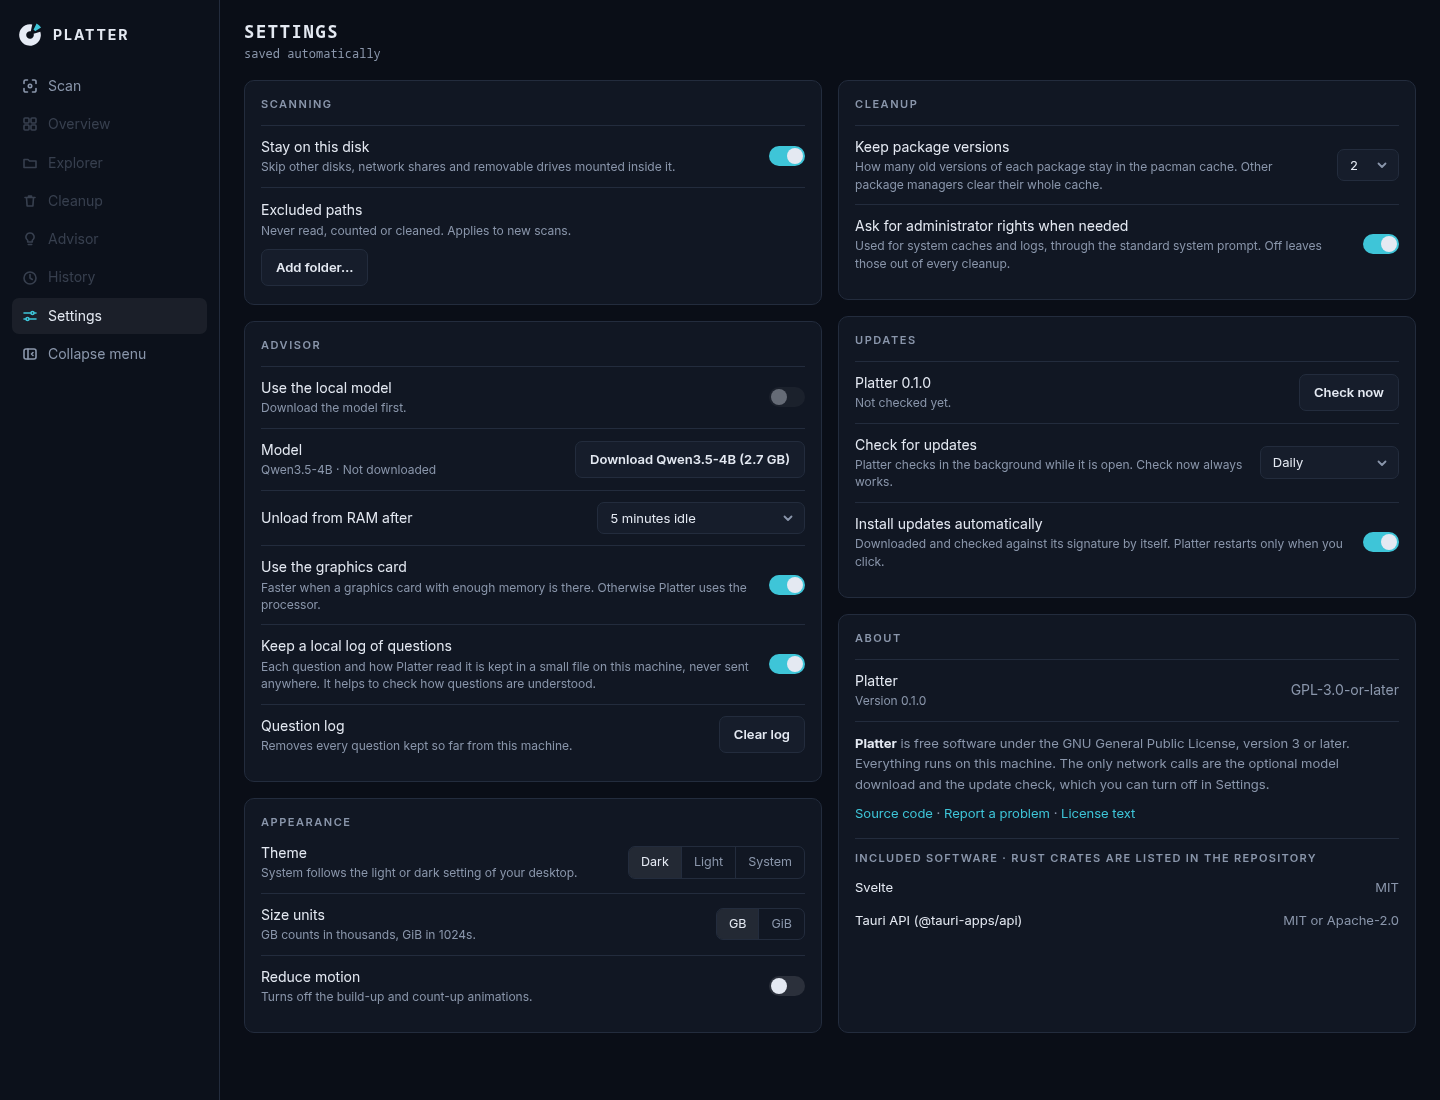
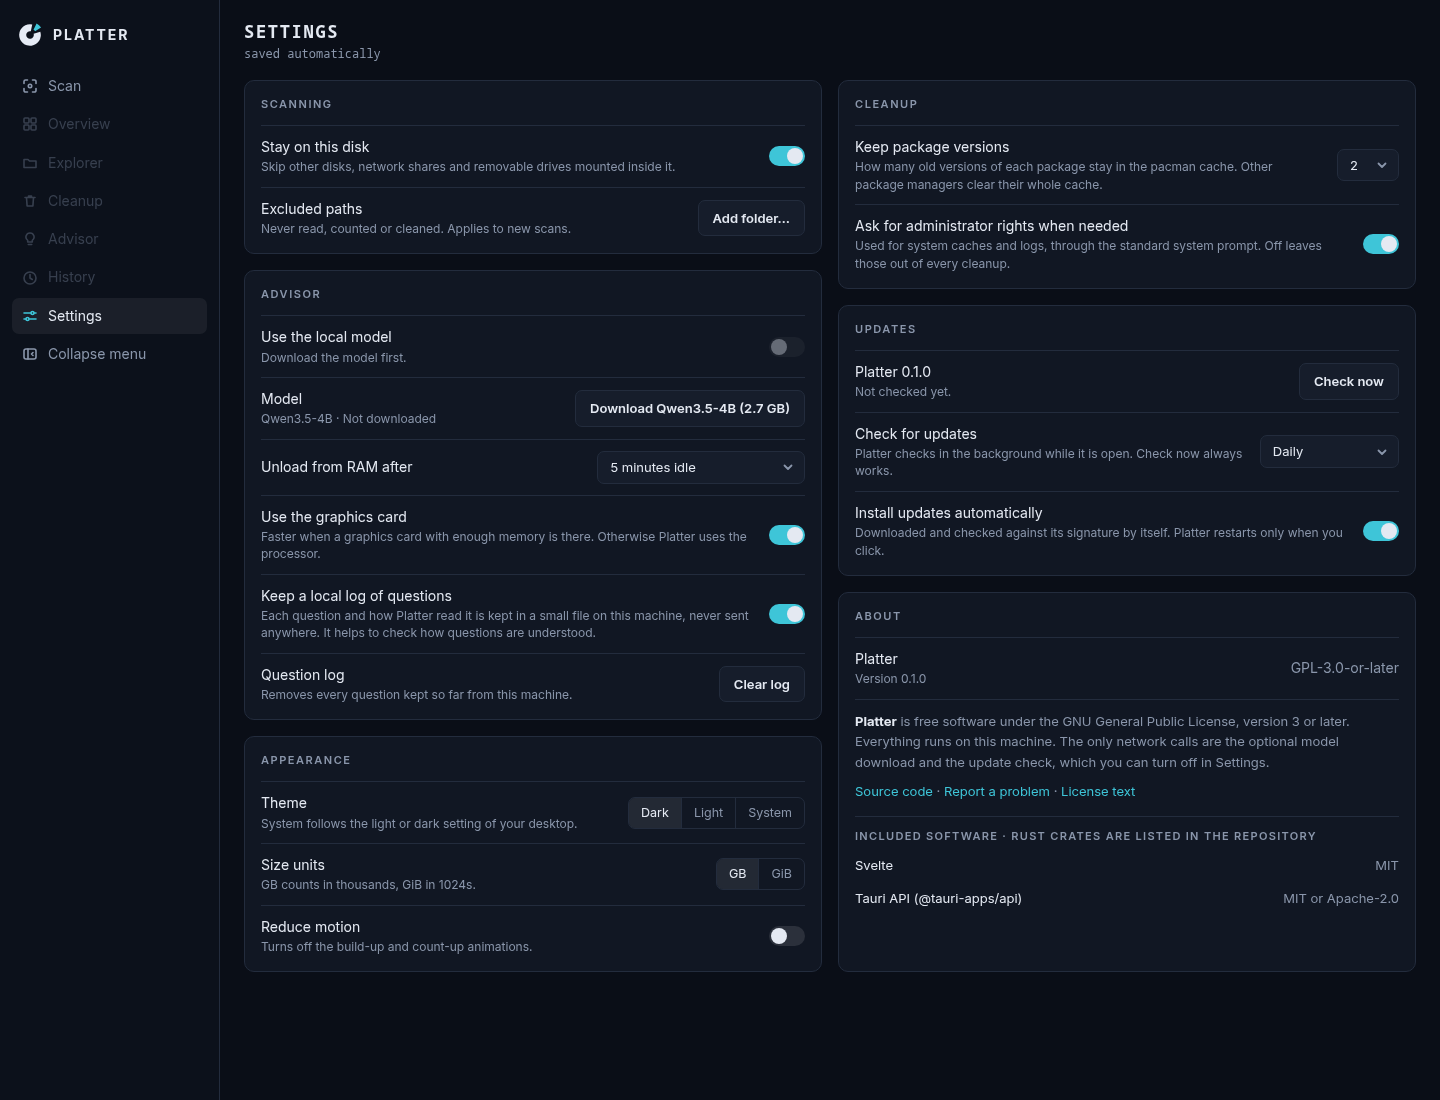
Settings: a card's last row leaves the same space below as the title above
Every Field kept 11 px under itself, so the last row of a card added it to
the card's 16 px padding. The last Field of a card has no padding below it
now. Appearance drops the wrapper that hid the line under its title, so
every card starts the same way.

diff --git a/apps/desktop/src/lib/features/settings/SettingsPage.svelte b/apps/desktop/src/lib/features/settings/SettingsPage.svelte
@@ -57,47 +57,45 @@
     <AdvisorSettingsCard />
 
     <Card title="Appearance" grow>
-      <div>
-        <Field label="Theme" description="System follows the light or dark setting of your desktop.">
-          {#snippet control()}
-            <Segmented
-              options={THEME_OPTIONS}
-              value={settings.theme}
-              label="Theme"
-              onchange={(choice) => {
-                settings.set('theme', choice);
-                applyThemeChoice(choice);
-              }}
-            />
-          {/snippet}
-        </Field>
-        <Field label="Size units" description="GB counts in thousands, GiB in 1024s.">
-          {#snippet control()}
-            <Segmented
-              options={UNIT_OPTIONS}
-              value={settings.units}
-              label="Size units"
-              onchange={(units) => {
-                settings.set('units', units);
-                saved();
-              }}
-            />
-          {/snippet}
-        </Field>
-        <Field label="Reduce motion" description="Turns off the build-up and count-up animations.">
-          {#snippet control(labelId, descriptionId)}
-            <Toggle
-              checked={settings.reduceMotion}
-              aria-labelledby={labelId}
-              aria-describedby={descriptionId}
-              onchange={(event) => {
-                settings.set('reduceMotion', event.currentTarget.checked);
-                saved();
-              }}
-            />
-          {/snippet}
-        </Field>
-      </div>
+      <Field label="Theme" description="System follows the light or dark setting of your desktop.">
+        {#snippet control()}
+          <Segmented
+            options={THEME_OPTIONS}
+            value={settings.theme}
+            label="Theme"
+            onchange={(choice) => {
+              settings.set('theme', choice);
+              applyThemeChoice(choice);
+            }}
+          />
+        {/snippet}
+      </Field>
+      <Field label="Size units" description="GB counts in thousands, GiB in 1024s.">
+        {#snippet control()}
+          <Segmented
+            options={UNIT_OPTIONS}
+            value={settings.units}
+            label="Size units"
+            onchange={(units) => {
+              settings.set('units', units);
+              saved();
+            }}
+          />
+        {/snippet}
+      </Field>
+      <Field label="Reduce motion" description="Turns off the build-up and count-up animations.">
+        {#snippet control(labelId, descriptionId)}
+          <Toggle
+            checked={settings.reduceMotion}
+            aria-labelledby={labelId}
+            aria-describedby={descriptionId}
+            onchange={(event) => {
+              settings.set('reduceMotion', event.currentTarget.checked);
+              saved();
+            }}
+          />
+        {/snippet}
+      </Field>
     </Card>
   </div>
 

diff --git a/apps/desktop/src/lib/components/ui/Field.svelte b/apps/desktop/src/lib/components/ui/Field.svelte
@@ -35,6 +35,11 @@
     padding-top: 0;
   }
 
+  /* The card's own padding is the space under its last row, as above its title. */
+  .field:last-child {
+    padding-bottom: 0;
+  }
+
   .text {
     flex: 1;
     min-width: 0;

diff --git a/apps/desktop/src/lib/features/settings/ExcludedPaths.svelte b/apps/desktop/src/lib/features/settings/ExcludedPaths.svelte
@@ -80,7 +80,6 @@
 
 <style>
   .chips {
-    padding: 0 0 12px;
     display: flex;
     flex-wrap: wrap;
     align-items: center;
